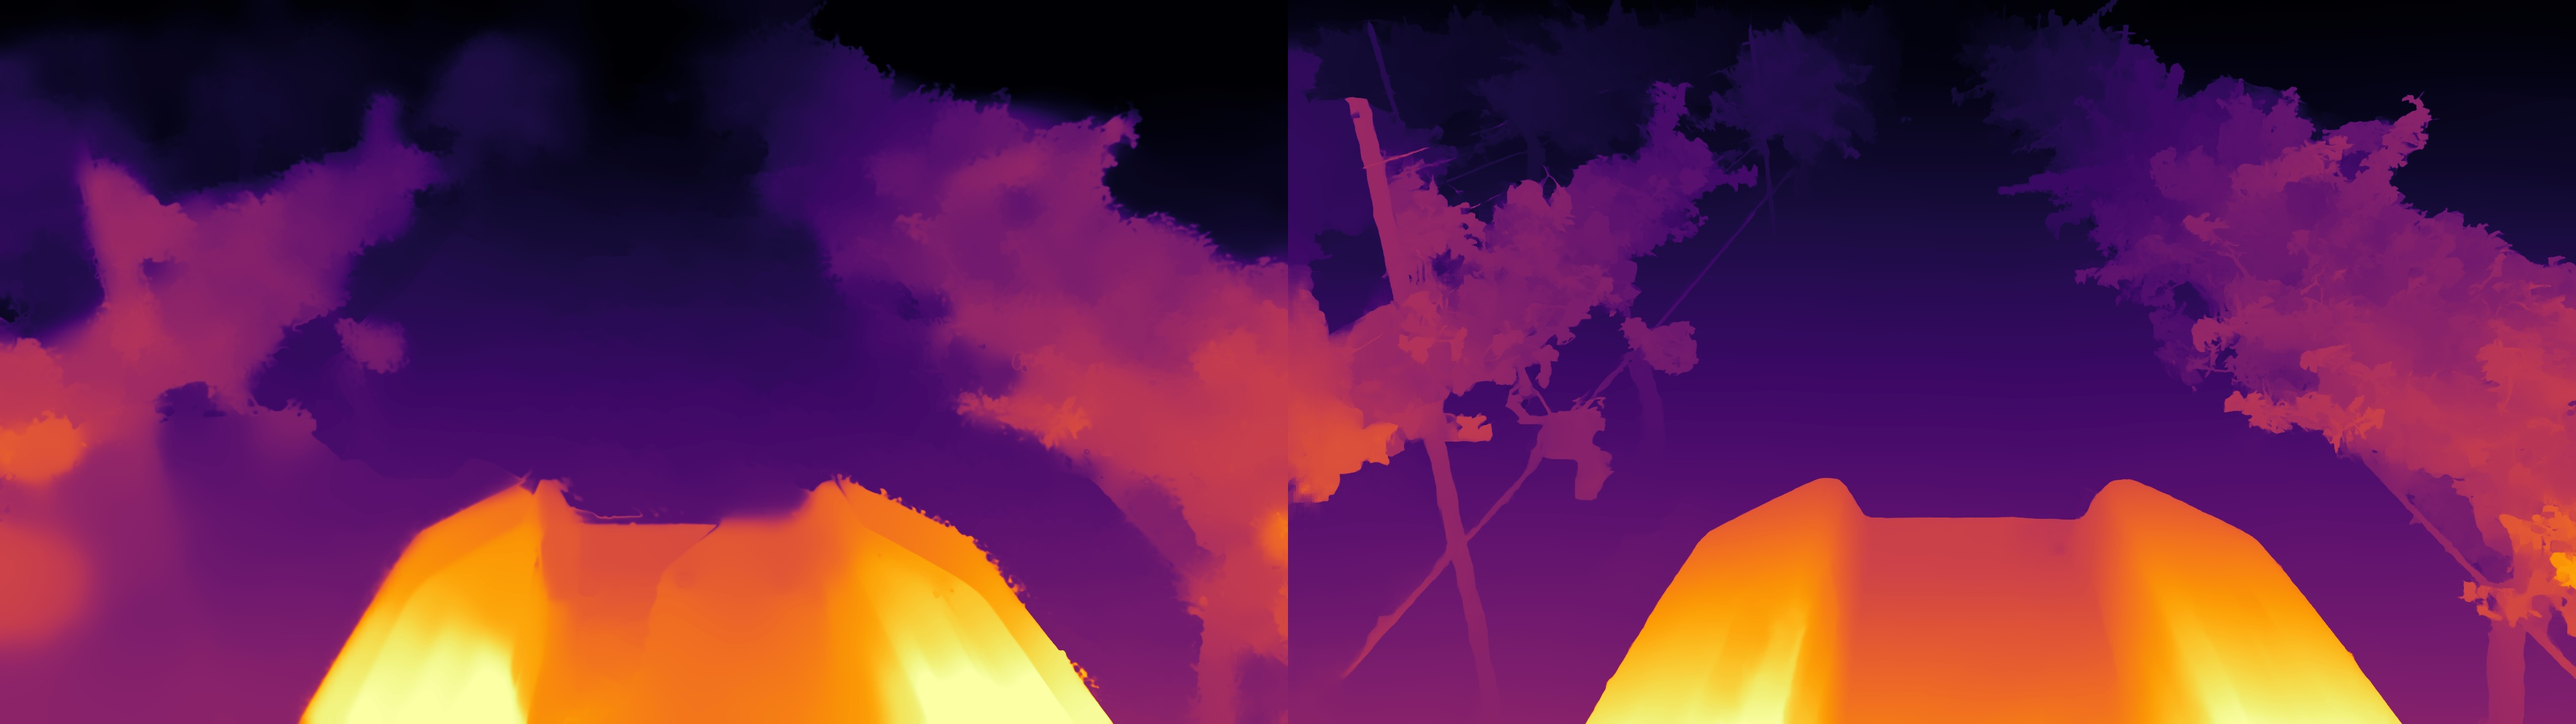
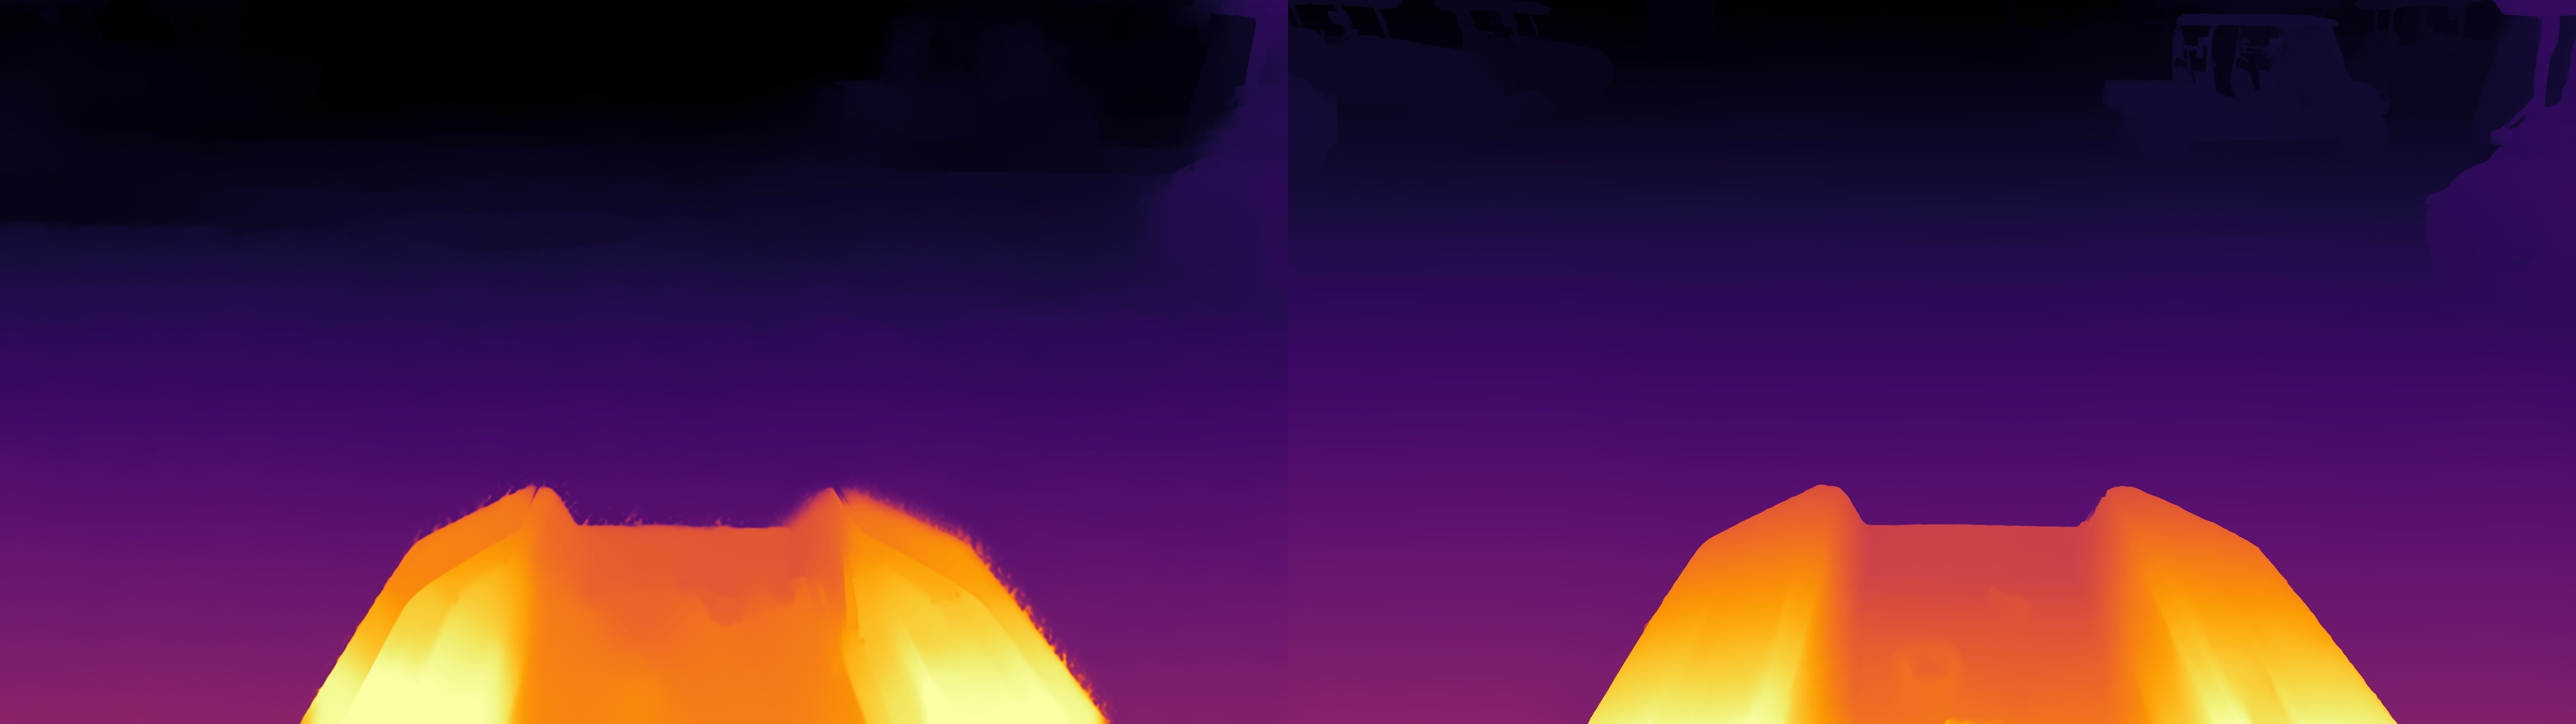
added progress bar

diff --git a/test_model.py b/test_model.py
@@ -17,7 +17,7 @@ device = 'cuda'
 #Ref: https://github.com/megvii-research/CREStereo/blob/master/test.py
 def inference(left, right, model, n_iter=20):
 
-	print("Model Forwarding...")
+	# print("Model Forwarding...")
 	imgL = left.transpose(2, 0, 1)
 	imgR = right.transpose(2, 0, 1)
 	imgL = np.ascontiguousarray(imgL[None, :, :, :])
@@ -75,10 +75,12 @@ if __name__ == '__main__':
 	right_images = [f for f in files if f.startswith("right")]
 
 	assert len(left_images) == len(right_images), "The number of left and right images should be equal"
-
+	
+	progress_bar = tqdm(total=len(left_images))
 	for idx, (left_image, right_image) in enumerate(tqdm(zip(left_images, right_images)), start=0):
+		progress_bar.update(1)
 
-		print(f"Processing {idx}th frame!")
+		# print(f"Processing {idx}th frame!")
 		left_path = os.path.join(zed_files, left_image)
 		right_path = os.path.join(zed_files, right_image)
 
@@ -111,17 +113,19 @@ if __name__ == '__main__':
 		disp_vis = disp_vis.astype("uint8")	
 		disp_vis = cv2.applyColorMap(disp_vis, cv2.COLORMAP_INFERNO)
 		
-		zed_depth_map = cv2.imread(f"{zed_depth_maps}/frame_{idx}.png")
+		zed_disp_map = cv2.imread(f"{zed_depth_maps}/frame_{idx}.png")
 		# cv2.imshow("zed_depth_map", zed_depth_map)
 		# cv2.waitKey()
 		# print(f"type()")
 		# print(f"zed_depth_map.shape: {zed_depth_map.shape} disp_vis.shape: {disp_vis.shape}")
 
-		combined_img = np.hstack((zed_depth_map, disp_vis))
+		combined_img = np.hstack((zed_disp_map, disp_vis))
 		#cv2.namedWindow("output", cv2.WINDOW_NORMAL)
 		#cv2.imshow("output", combined_img)
 		cv2.imwrite(f"{model_depth_maps}/frame_{idx}.png", disp_vis)
 		cv2.imwrite(f"{comparison_folder}/frame_{idx}.jpg", combined_img)
 		#cv2.waitKey()
+	progress_bar.close()
+
 
 

diff --git a/zed-depth-map.py b/zed-depth-map.py
@@ -24,7 +24,8 @@ def colorize_depth_map(pred):
 if __name__ == '__main__':
 
 
-	svo_file = "svo-files/front_2023-11-03-10-46-17.svo"
+	#svo_file = "svo-files/front_2023-11-03-10-46-17.svo"
+	svo_file = "svo-files/front_2024-05-15-18-59-18.svo"
 	i = 0 
 
 
